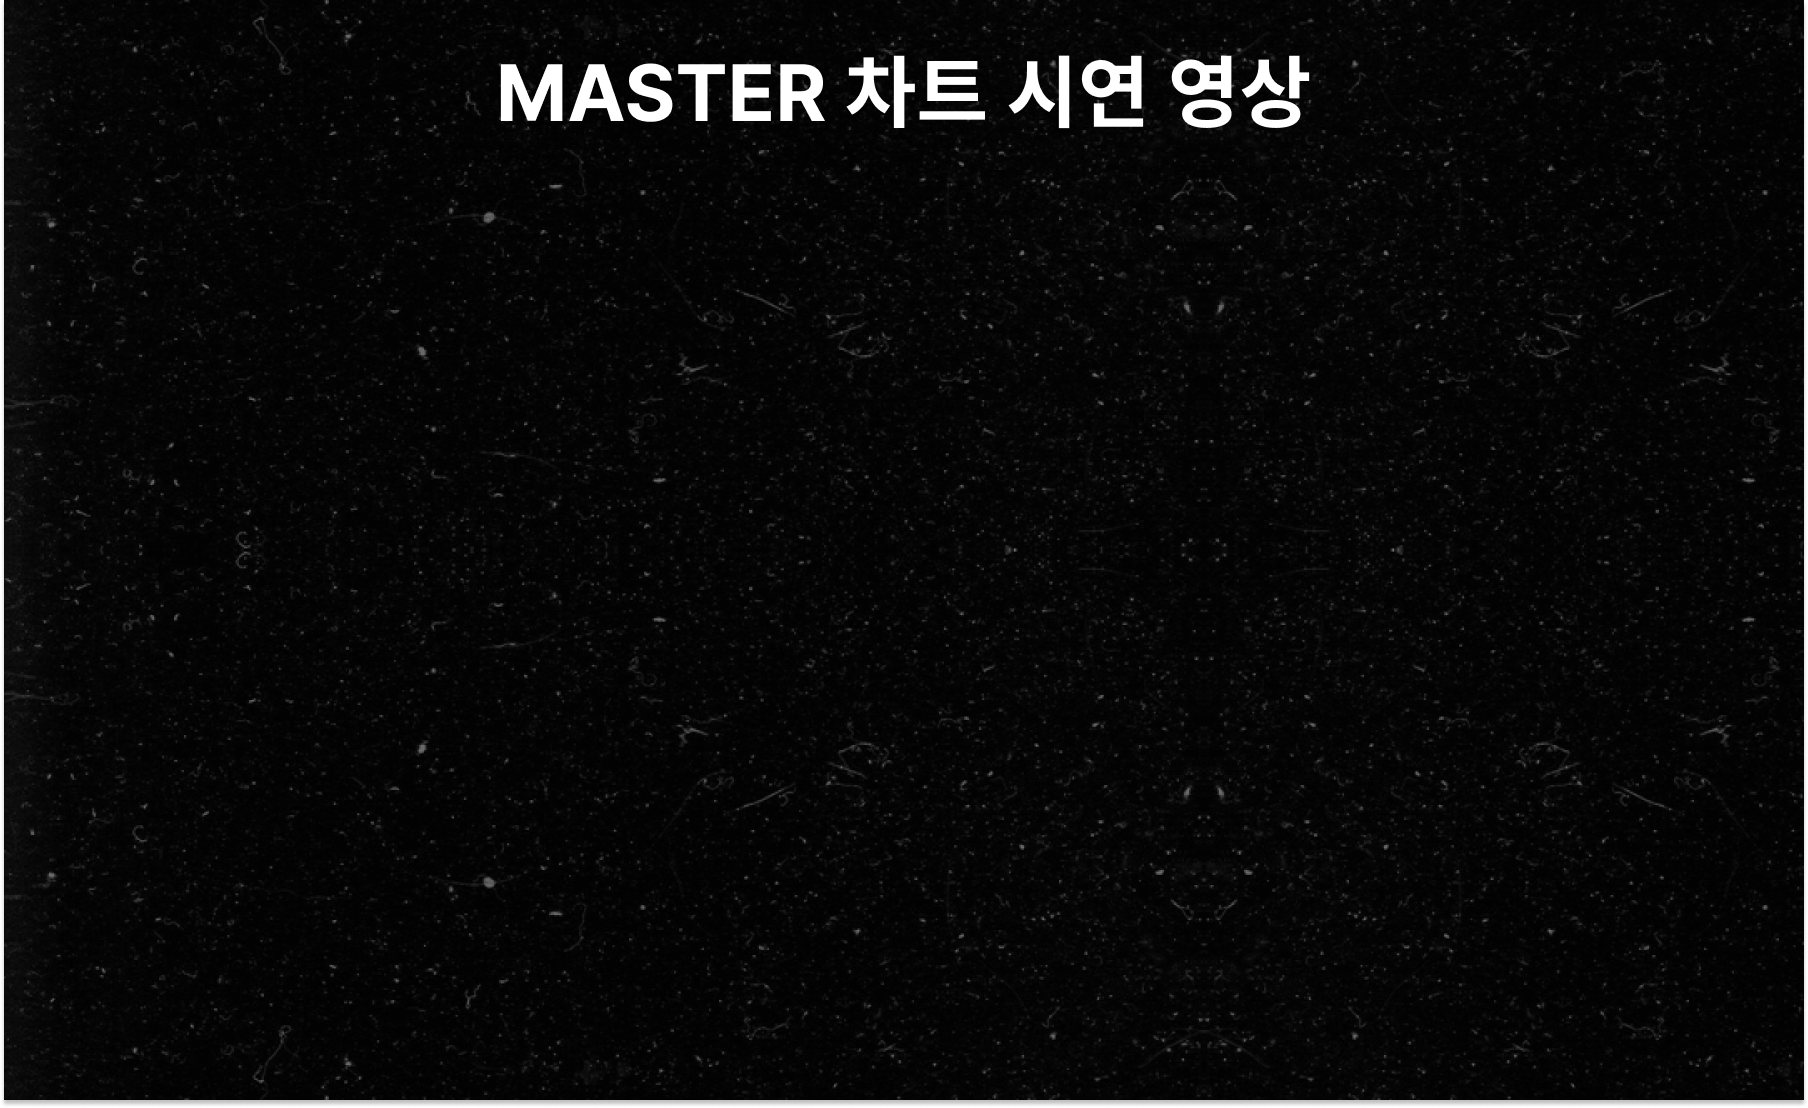
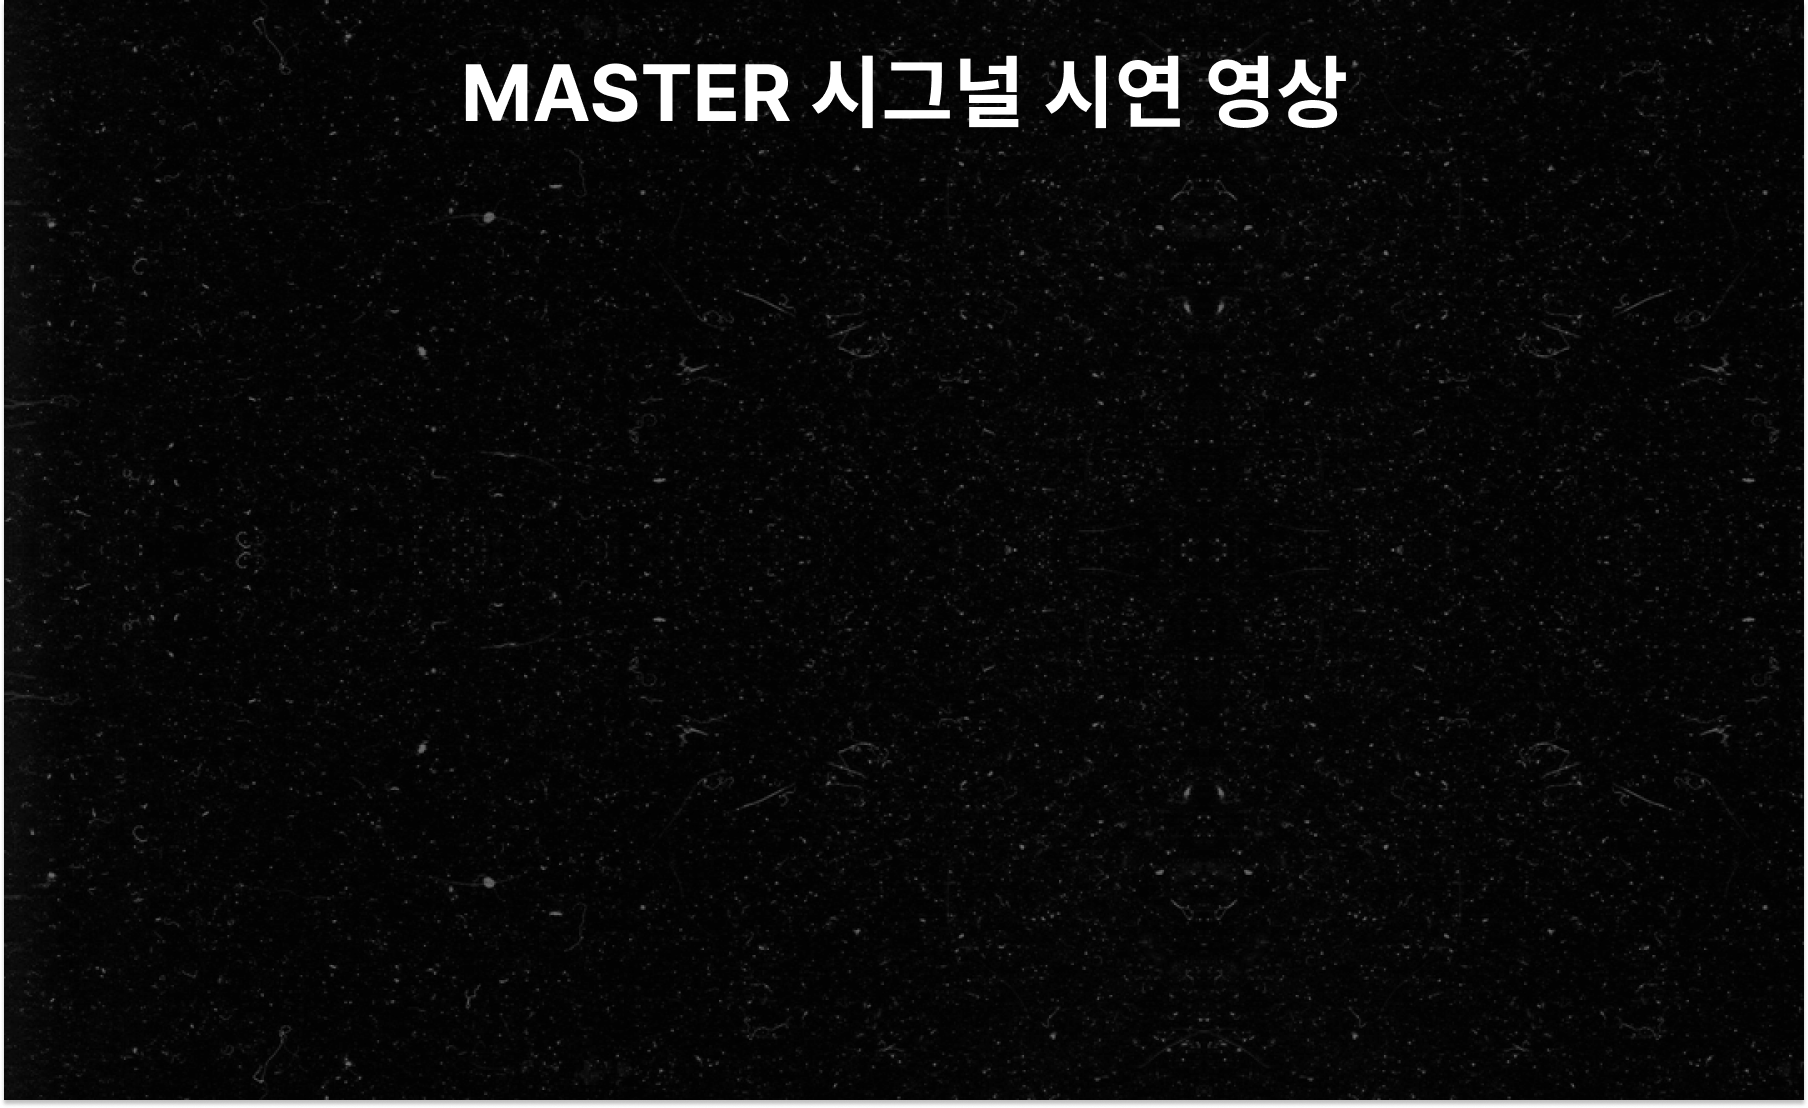
masteri5 v1.6 - update title and image name

Changed region(s): [[0.2478, 0.0307, 0.7434, 0.1227]]

diff --git a/index.html b/index.html
@@ -1,129 +1,131 @@
 <!DOCTYPE html>
 <html lang="en">
-  <head>
-    <meta charset="utf-8" />
 
-    <meta property="og:type" content="website" />
-    <meta property="og:title" content="마스터 차트" />
+<head>
+  <meta charset="utf-8" />
 
-    <meta name="keywords" content="마스터 차트,AI 차트,인공지능,주식,코인,해외선물,보조지표,자동매매,매매신호" />
-    <meta name="description" content="투자의 미래는 마스터로 시작한다! 매우 직관적이면서도 스마트한 투자 방식으로 새로운 미래를 경험해보세요!" />
-    <meta property="og:description" content="투자의 미래는 마스터로 시작한다! 매우 직관적이면서도 스마트한 투자 방식으로 새로운 미래를 경험해보세요!" />
+  <meta property="og:type" content="website" />
+  <meta property="og:title" content="마스터 시그널" />
 
-    <meta name="fb:card" content="summary" />
-    <meta name="fb:title" content="마스터 차트" />
-    <meta name="fb:description" content="투자의 미래는 마스터로 시작한다! 매우 직관적이면서도 스마트한 투자 방식으로 새로운 미래를 경험해보세요!" />
+  <meta name="keywords" content="마스터 시그널,AI 차트,인공지능,주식,코인,해외선물,보조지표,자동매매,매매신호" />
+  <meta name="description" content="투자의 미래는 마스터로 시작한다! 매우 직관적이면서도 스마트한 투자 방식으로 새로운 미래를 경험해보세요!" />
+  <meta property="og:description" content="투자의 미래는 마스터로 시작한다! 매우 직관적이면서도 스마트한 투자 방식으로 새로운 미래를 경험해보세요!" />
 
-    <meta name="twitter:card" content="summary" />
-    <meta name="twitter:title" content="마스터 차트" />
-    <meta name="twitter:description" content="투자의 미래는 마스터로 시작한다! 매우 직관적이면서도 스마트한 투자 방식으로 새로운 미래를 경험해보세요!" />
-    <meta property="og:image" content="/ico/sns.png" />
-    <meta name="fb:image" content="/ico/sns.png" />
-    <meta name="twitter:image" content="/ico/sns.png" />
+  <meta name="fb:card" content="summary" />
+  <meta name="fb:title" content="마스터 시그널" />
+  <meta name="fb:description" content="투자의 미래는 마스터로 시작한다! 매우 직관적이면서도 스마트한 투자 방식으로 새로운 미래를 경험해보세요!" />
 
-    <meta property="og:url" content="https://master-chart.com" />
-    <link rel="canonical" href="https://master-chart.com" />
-    <meta name="viewport" content="width=device-width, initial-scale=1.0" />
-    <meta http-equiv="imagetoolbar" content="no" />
-    <meta http-equiv="X-UA-Compatible" content="IE=Edge" />
-    <title>마스터 차트</title>
+  <meta name="twitter:card" content="summary" />
+  <meta name="twitter:title" content="마스터 시그널" />
+  <meta name="twitter:description" content="투자의 미래는 마스터로 시작한다! 매우 직관적이면서도 스마트한 투자 방식으로 새로운 미래를 경험해보세요!" />
+  <meta property="og:image" content="/ico/sns.png" />
+  <meta name="fb:image" content="/ico/sns.png" />
+  <meta name="twitter:image" content="/ico/sns.png" />
 
-    <link rel="apple-touch-icon" sizes="180x180" href="/ico/apple-touch-icon.png?v=1.1" />
-    <link rel="icon" type="image/png" sizes="32x32" href="/ico/favicon-32x32.png?v=1.1" />
-    <link rel="icon" type="image/png" sizes="16x16" href="/ico/favicon-16x16.png?v=1.1" />
-    <link rel="manifest" href="/ico/site.webmanifest?v=1.1" />
-    <link rel="mask-icon" href="/ico/safari-pinned-tab.svg?v=1.1" color="#5bbad5" />
-    <link rel="shortcut icon" href="/ico/favicon.ico?v=1.1" />
-    <meta name="msapplication-TileColor" content="#da532c" />
-    <meta name="theme-color" content="#ffffff" />
+  <meta property="og:url" content="https://master-chart.com" />
+  <link rel="canonical" href="https://master-chart.com" />
+  <meta name="viewport" content="width=device-width, initial-scale=1.0" />
+  <meta http-equiv="imagetoolbar" content="no" />
+  <meta http-equiv="X-UA-Compatible" content="IE=Edge" />
+  <title>마스터 시그널</title>
 
-    <meta name="naver-site-verification" content="420abc408da0cf8ff0652d94e4102bcecda3633f" />
-    <meta name="google-site-verification" content="N7Mad2FZmbambAik5G9k2bwEim4PhFlg5-k__710p08" />
+  <link rel="apple-touch-icon" sizes="180x180" href="/ico/apple-touch-icon.png?v=1.1" />
+  <link rel="icon" type="image/png" sizes="32x32" href="/ico/favicon-32x32.png?v=1.1" />
+  <link rel="icon" type="image/png" sizes="16x16" href="/ico/favicon-16x16.png?v=1.1" />
+  <link rel="manifest" href="/ico/site.webmanifest?v=1.1" />
+  <link rel="mask-icon" href="/ico/safari-pinned-tab.svg?v=1.1" color="#5bbad5" />
+  <link rel="shortcut icon" href="/ico/favicon.ico?v=1.1" />
+  <meta name="msapplication-TileColor" content="#da532c" />
+  <meta name="theme-color" content="#ffffff" />
 
-    <link rel="stylesheet" href="https://cdn.jsdelivr.net/npm/swiper@11/swiper-bundle.min.css" />
-    <link rel="stylesheet" href="./style.css" />
-  </head>
+  <meta name="naver-site-verification" content="420abc408da0cf8ff0652d94e4102bcecda3633f" />
+  <meta name="google-site-verification" content="N7Mad2FZmbambAik5G9k2bwEim4PhFlg5-k__710p08" />
 
-  <body>
-    <section id="img1">
-      <img src="./img/Group 312.png" alt="section-image" />
-    </section>
-    <section id="img2">
-      <img src="./img/Group 313.png" alt="section-image" />
-    </section>
-    <section id="img3">
-      <img src="./img/Group 314.png" alt="section-image" />
-    </section>
-    <section id="img4">
-      <img src="./img/Group 315.png" alt="section-image" />
-    </section>
-    <section id="img5">
-      <img src="./img/Group 316.png" alt="section-image" />
-    </section>
-    <section id="img6">
-      <img src="./img/Group 325.png" alt="section-image" />
-    </section>
-    <!-- Video -->
-    <section id="img7">
-      <img src="./img/Group 318.png" alt="section-image" />
-      <div class="video-box">
-        <video src="./media/masteri5.mp4" controls loop muted></video>
-      </div>
-    </section>
+  <link rel="stylesheet" href="https://cdn.jsdelivr.net/npm/swiper@11/swiper-bundle.min.css" />
+  <link rel="stylesheet" href="./style.css" />
+</head>
+
+<body>
+  <section id="img1">
+    <img src="./img/Group 312.png" alt="section-image" />
+  </section>
+  <section id="img2">
+    <img src="./img/Group 313.png" alt="section-image" />
+  </section>
+  <section id="img3">
+    <img src="./img/Group 314.png" alt="section-image" />
+  </section>
+  <section id="img4">
+    <img src="./img/Group 315.png" alt="section-image" />
+  </section>
+  <section id="img5">
+    <img src="./img/Group 316.png" alt="section-image" />
+  </section>
+  <section id="img6">
+    <img src="./img/Group 325.png" alt="section-image" />
+  </section>
+  <!-- Video -->
+  <section id="img7">
+    <img src="./img/Group 318.png" alt="section-image" />
+    <div class="video-box">
+      <video src="./media/masteri5.mp4" controls loop muted></video>
+    </div>
+  </section>
+  <!-- Swiper -->
+  <section id="img8">
+    <img src="./img/Group 319.png" alt="section-image" />
     <!-- Swiper -->
-    <section id="img8">
-      <img src="./img/Group 319.png" alt="section-image" />
-      <!-- Swiper -->
-      <div class="analyst__swiper">
-        <div class="swiper-wrapper">
-          <div class="swiper-slide">
-            <img src="./img/analyst01.png" alt="analyst" />
-            <div class="analyst-name">dong hyun kim</div>
-          </div>
-          <div class="swiper-slide">
-            <img src="./img/analyst02.png" alt="analyst" />
-            <div class="analyst-name">derek son</div>
-          </div>
-          <div class="swiper-slide">
-            <img src="./img/analyst03.png" alt="analyst" />
-            <div class="analyst-name">young min park</div>
-          </div>
-          <div class="swiper-slide">
-            <img src="./img/analyst04.png" alt="analyst" />
-            <div class="analyst-name">na ri lee</div>
-          </div>
-          <div class="swiper-slide">
-            <img src="./img/analyst05.png" alt="analyst" />
-            <div class="analyst-name">si woo kim</div>
-          </div>
+    <div class="analyst__swiper">
+      <div class="swiper-wrapper">
+        <div class="swiper-slide">
+          <img src="./img/analyst01.png" alt="analyst" />
+          <div class="analyst-name">dong hyun kim</div>
+        </div>
+        <div class="swiper-slide">
+          <img src="./img/analyst02.png" alt="analyst" />
+          <div class="analyst-name">derek son</div>
+        </div>
+        <div class="swiper-slide">
+          <img src="./img/analyst03.png" alt="analyst" />
+          <div class="analyst-name">young min park</div>
+        </div>
+        <div class="swiper-slide">
+          <img src="./img/analyst04.png" alt="analyst" />
+          <div class="analyst-name">na ri lee</div>
+        </div>
+        <div class="swiper-slide">
+          <img src="./img/analyst05.png" alt="analyst" />
+          <div class="analyst-name">si woo kim</div>
         </div>
       </div>
-    </section>
+    </div>
+  </section>
 
-    <footer id="footer">
-      <p class="company__name container">reverse solution</p>
-      <hr />
-      <div class="wrapper container">
-        <p class="description">Name. Reverse Solution & Noti Tech | Address. Seoul, Korea</p>
-        <p class="copyright">COPYRIGHT © BITSOLUTION ALL RIGHTS RESERVED</p>
-      </div>
-    </footer>
+  <footer id="footer">
+    <h1 class="company__name container">마스터 시그널</h1>
+    <hr />
+    <div class="wrapper container">
+      <p class="description">Name. 리버스솔루션 & 노티테크 | Address. 서울특별시 금천구 디지털로 9길 68, 1층</p>
+      <p class="copyright">COPYRIGHT © 2023 리버스솔루션 ALL RIGHTS RESERVED</p>
+    </div>
+  </footer>
 
-    <!-- SCRIPT -->
-    <script src="https://cdn.jsdelivr.net/npm/swiper@11/swiper-bundle.min.js"></script>
-    <script>
-      document.querySelector("video").playbackRate = 2;
+  <!-- SCRIPT -->
+  <script src="https://cdn.jsdelivr.net/npm/swiper@11/swiper-bundle.min.js"></script>
+  <script>
+    document.querySelector("video").playbackRate = 2;
 
-      var swiper = new Swiper(".analyst__swiper", {
-        autoplay: {
-          delay: 1,
-          disableOnInteraction: false,
-        },
-        speed: 8e3,
-        loop: true,
-        slidesPerView: 3,
-        spaceBetween: 30,
-      });
-    </script>
-  </body>
+    var swiper = new Swiper(".analyst__swiper", {
+      autoplay: {
+        delay: 1,
+        disableOnInteraction: false,
+      },
+      speed: 8e3,
+      loop: true,
+      slidesPerView: 3,
+      spaceBetween: 30,
+    });
+  </script>
+</body>
+
 </html>

diff --git a/style.css b/style.css
@@ -9,9 +9,33 @@ body {
 /* Section */
 section {
   margin-bottom: 3rem;
+  position: relative;
 }
 section img {
   width: 100%;
+}
+
+#img1 h1 {
+  color: #fff;
+  font-size: 2rem;
+  font-weight: bold;
+  position: absolute;
+  top: 7%;
+  left: 12%;
+}
+#img1 p {
+  color: #fff;
+  font-size: 3.3rem;
+  font-weight: bold;
+  position: absolute;
+}
+#img1 .desc1 {
+  top: 29%;
+  left: 3.5%;
+}
+#img1 .desc2 {
+  top: 43%;
+  left: 3.5%;
 }
 
 /* Video */
@@ -39,6 +63,7 @@ section img {
   left: 0;
   width: 100%;
   height: 60%;
+  overflow: hidden;
 }
 .swiper-slide {
   text-align: center;
